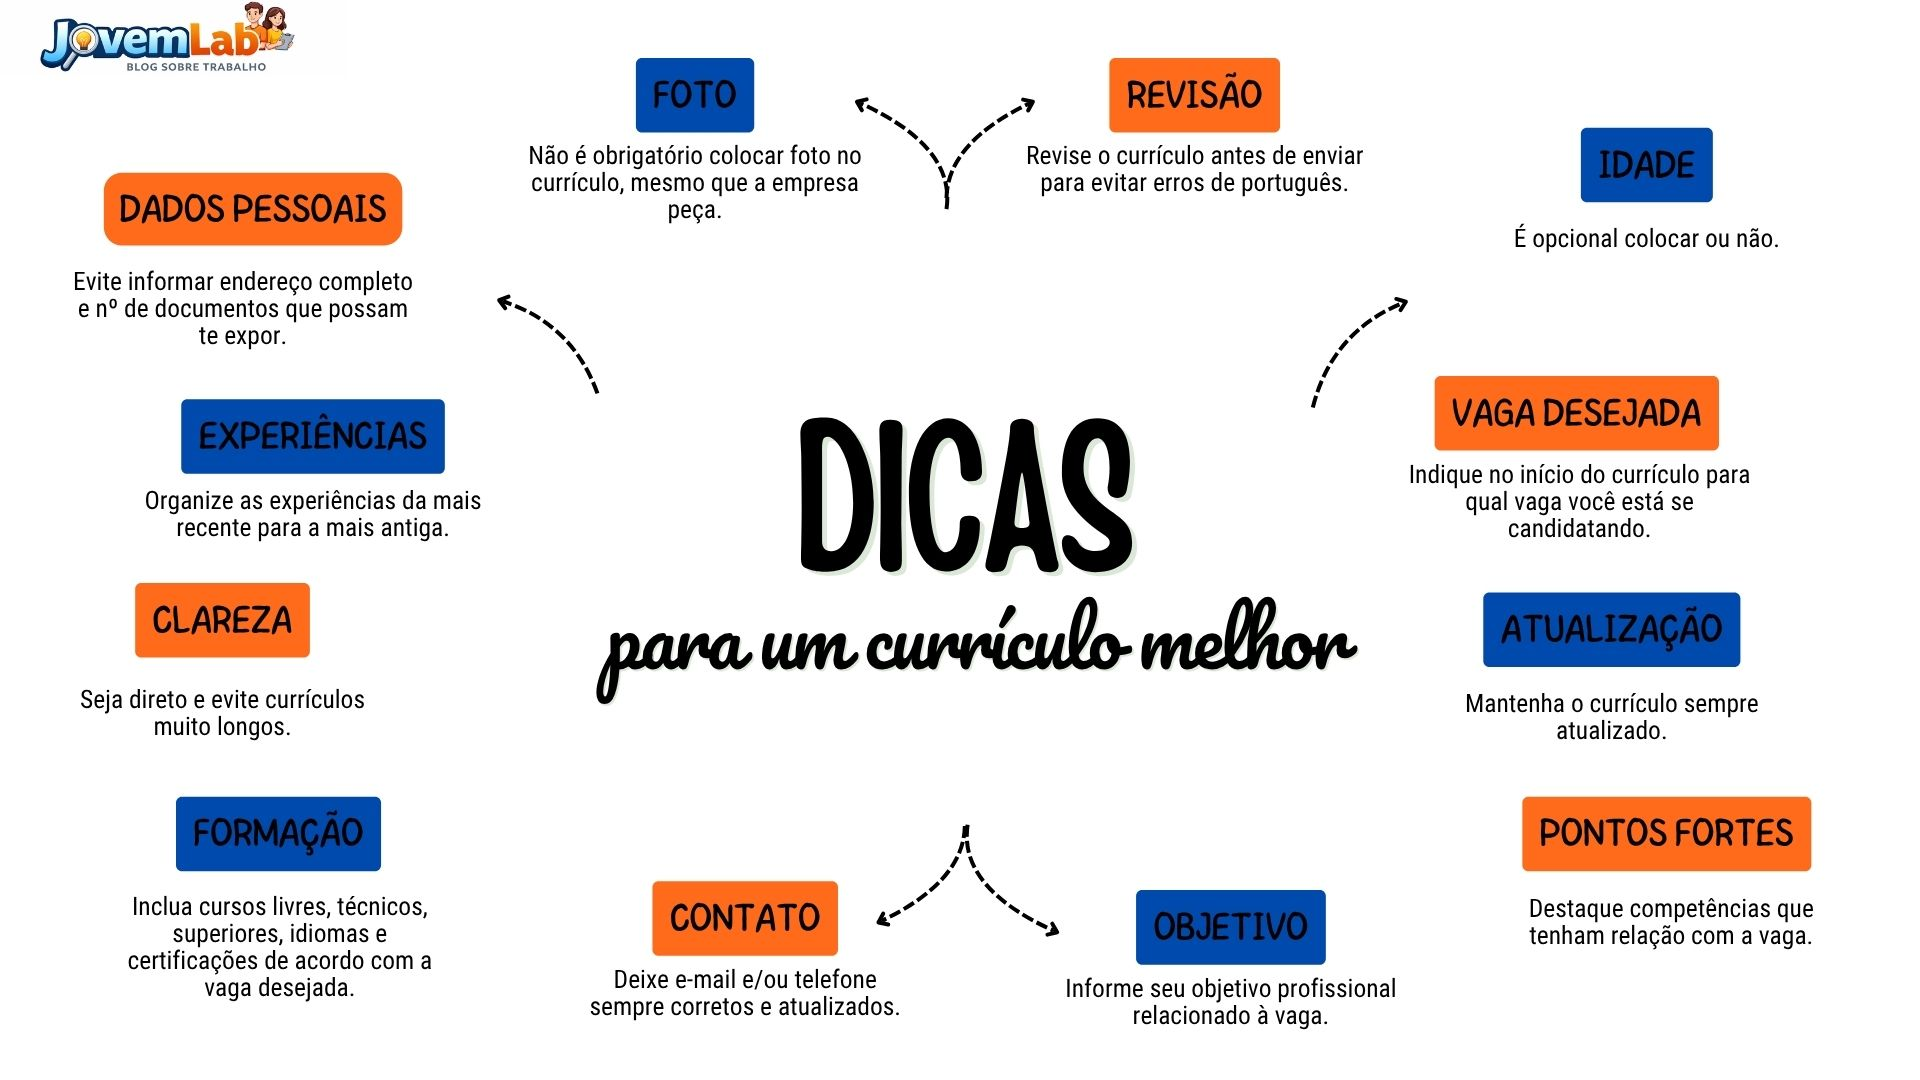
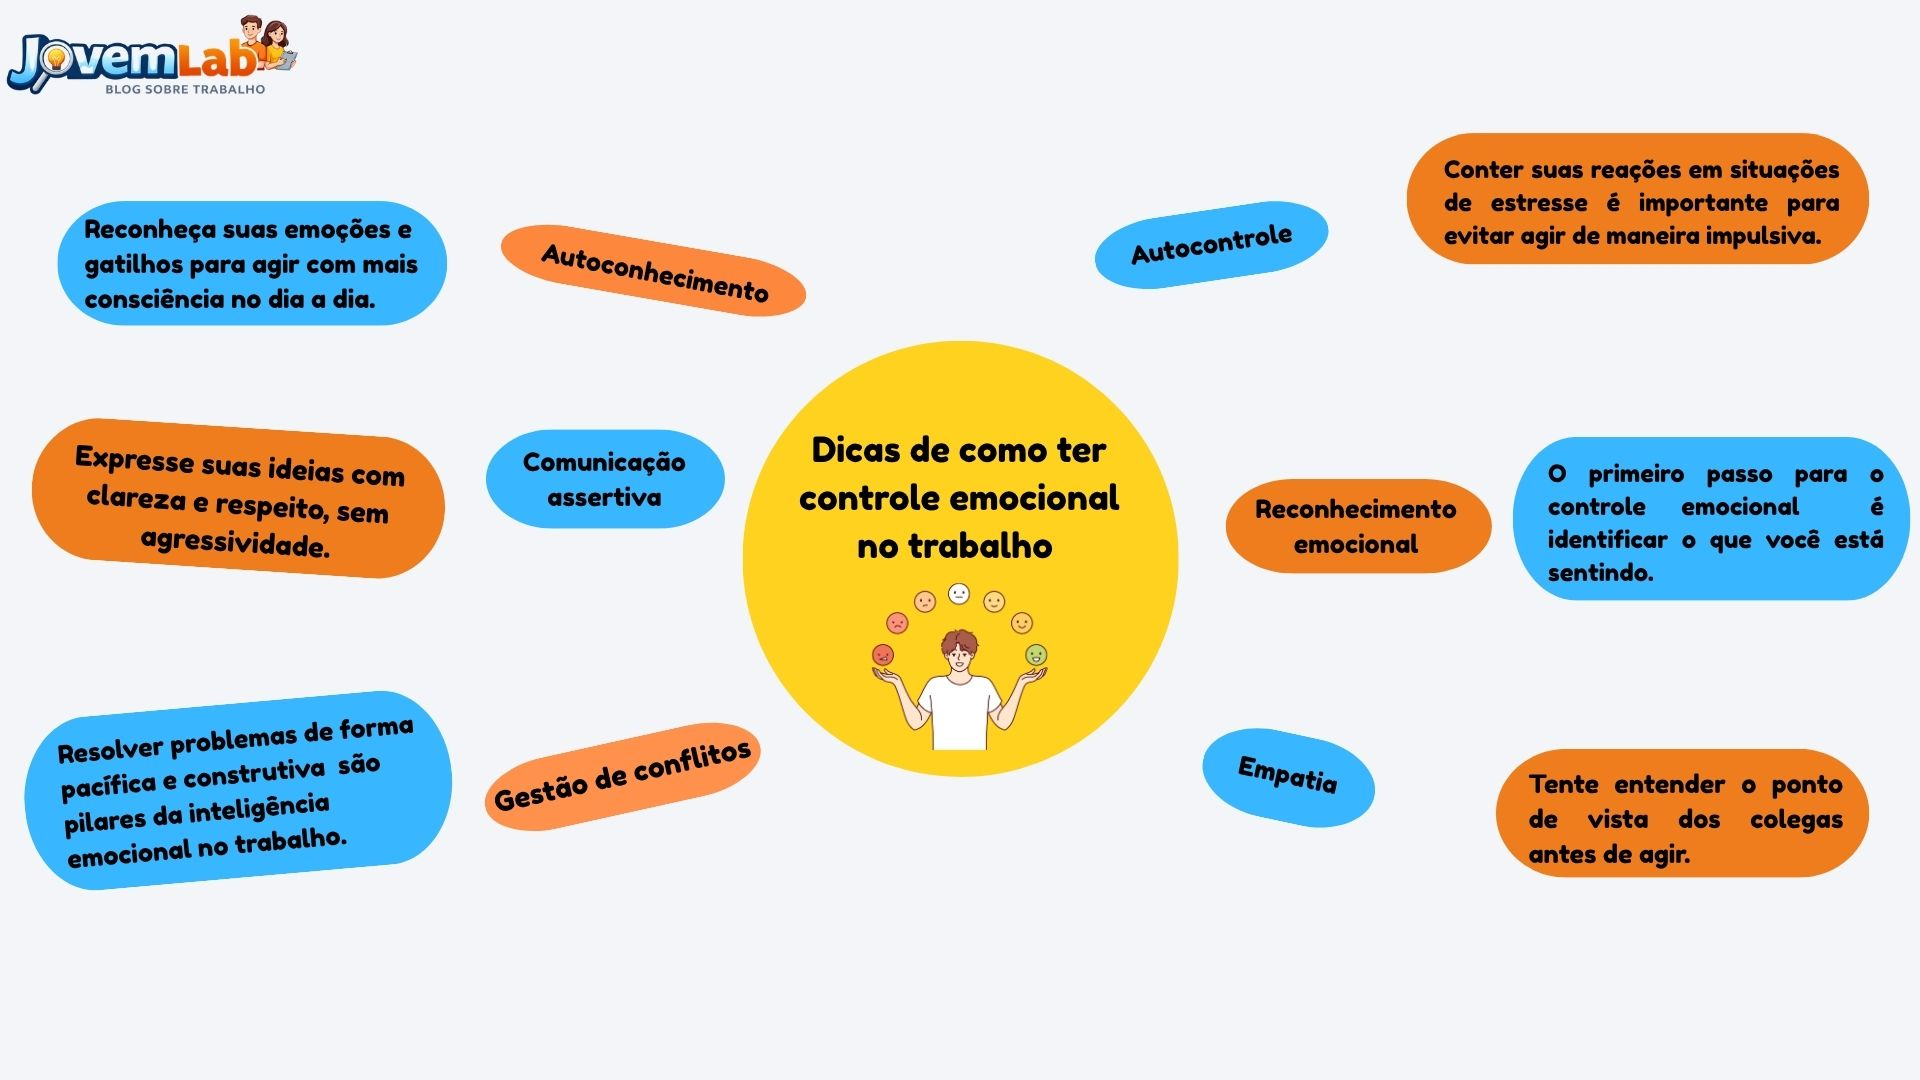
Apresentação Finalizada

diff --git a/js/storage.js b/js/storage.js
@@ -253,7 +253,7 @@ const DB = {
         destaque: false,
         dataPublicacao: '2026-04-28',
         tempoLeitura: '7 min',
-        autor: 'Davi Teixeira Granjeiro e Gabryel Barbosa Ramos e Silva',
+        autor: 'Davi Teixeira Granjeiro, Gabryel Barbosa Ramos e Silva e Rebeca',
         conteudo: `
         <div class="slides-davi">  
           <div class="slide-davi1">
@@ -353,19 +353,19 @@ const DB = {
             <img src="jovem-lab/assets/images/amanda6.jpg">
           </div>
           <div classe="slide-amanda7">
-            <img src="jovem-lab/assets/images/amanda7.jpg">
+            <img src="jovem-lab/assets/images/amanda7.png">
           </div>
           <div classe="slide-amanda8">
-            <img src="jovem-lab/assets/images/amanda8.jpg">
+            <img src="jovem-lab/assets/images/amanda8.png">
           </div>
           <div classe="slide-amanda9">
-            <img src="jovem-lab/assets/images/amanda9.jpg">
+            <img src="jovem-lab/assets/images/amanda9.png">
           </div>
           <div classe="slide-amanda10">
-            <img src="jovem-lab/assets/images/amanda10.jpg">
+            <img src="jovem-lab/assets/images/amanda10.png">
           </div>
           <div classe="slide-amanda11">
-            <img src="jovem-lab/assets/images/amanda11.jpg">
+            <img src="jovem-lab/assets/images/amanda11.png">
           </div>
           <div classe="slide-amanda12">
             <img src="jovem-lab/assets/images/amanda12.jpg">
@@ -478,86 +478,139 @@ const DB = {
         tempoLeitura: '10 min',
         autor: 'Turma de Aprendizagem 2026.08.53',
         conteudo: `
-        <section class="equipe"
-          <div class="autores">
-            <div class="kamilly">
-              <img src="jovem-lab/assets/images/kamillyfoto.jpeg" alt="Kamilly">
-                <div class="info-kamilly"
-                  <h2>Dicas de sites para cursos online para acrescentar no currículo</h2>
-                </div>
+        <section class="equipe">
+          <div class="membro"> 
+              <img src="jovem-lab/assets/images/kamillyfoto.jpeg">
+            <div class="info">
+              <h3>Cursos gratuitos para alavancar sua carreira</h3>
             </div>
-            <div class="rebeca">
-              <div class="info-rebeca"  
-                <img src="jovem-lab/assets/images/rebecafoto.jpeg">
-                <h2>Cursos que as empresas mais pedem</h2>
+          </div>
+          <div class="membro"> 
+            <img src="jovem-lab/assets/images/rebecafoto.jpeg">
+            <div class="info">
+              <h3>Quais cursos são mais valorizados pelas empresas</h3>
+            </div>
+          </div>
+          <div class="membro">
+            <img src="jovem-lab/assets/images/arnoldfoto.jpeg">
+            <div class="info">
+              <h3>Dicas de ética no trabalho</h3>
+            </div>
+          </div>
+          <div class="membro">
+            <img src="jovem-lab/assets/images/itallofoto.jpg">
+              <div class="info">
+                <h3>Como encontrar o primeiro emprego e Filmmaker do vídeo de apresentação</h3>
               </div>
+          </div>
+          <div class="membro">
+            <img src="jovem-lab/assets/images/kalebefoto.jpg">
+            <div class="info">
+              <h3>Como se vestir e se portar em uma entrevista</h3>
             </div>
-            <div class="arnold">
-              <div class="info-arnold"
-                <img src="jovem-lab/assets/images/arnoldfoto.jpeg">
-                <h2>Dicas de ética no trabalho</h2>
-              </div>
+          </div>
+          <div class="membro">
+            <img src="jovem-lab/assets/images/davifoto.webp">
+            <div class="info">
+              <h3>Quais cursos são mais valorizados pelas empresas</h3>
             </div>
-            <div class="itallo">
-                <div class="info-itallo"
-                  <img src="jovem-lab/assets/images/itallofoto.jpg">
-                  <h2>Como encontrar o primeiro emprego e Vídeo de apresentação</h2>
-                </div>
-            </div>
-            <div class="kalebe">
-              <img src="jovem-lab/assets/images/kalebefoto.jpg">
-            </div>
-            <div class="davi">
-              <img src="jovem-lab/assets/images/davifoto.webp">
-            </div>
-            <div class="vivian">
+          </div>
+          <div class="membro">
               <img src="jovem-lab/assets/images/vivianfoto.jpg">
+              <div class="info">
+                <h3>Dicas sobre como ter um currículo melhor</h3>
+              </div>
+          </div>
+          <div class="membro">
+             <img src="jovem-lab/assets/images/brunafoto.png">
+            <div class="info">
+              <h3>Cartaz físico, digital para divulgação do projeto e Atriz do vídeo de apresentação</h3>
             </div>
-            <div class="bruna">
-              <img src="jovem-lab/assets/images/brunafoto.jpeg">
+          </div>
+          <div class="membro">
+            <img src="jovem-lab/assets/images/esterfoto.jpeg">
+            <div class="info">
+              <h3>Cartaz físico, digital para divulgação do projeto e Atriz do vídeo de apresentação</h3>
             </div>
-            <div class="ester">
-              <img src="jovem-lab/assets/images/esterfoto.jpeg">
+          </div>
+          <div class="membro">
+            <img src="jovem-lab/assets/images/mariaclarafoto.jpeg">
+            <div class="info">
+              <h3>Como encontrar o primeiro emprego</h3>
             </div>
-            <div class="mariaclara">
-              <img src="jovem-lab/assets/images/mariaclarafoto.jpeg">
+          </div>
+          <div class="membro">
+            <img src="jovem-lab/assets/images/viniciusfoto.webp">
+            <div class="info">
+              <h3>Programador do site e idealizador</h3>
             </div>
-            <div class="vinicius">
-              <img src="jovem-lab/assets/images/viniciusfoto.webp">
+          </div>
+          <div class="membro">
+            <img src="jovem-lab/assets/images/viniciusg.webp">
+            <div class="info">
+              <h3>Como ter controle emocional no trabalho</h3>
             </div>
-            <div class="viniciusg">
-              <img src="jovem-lab/assets/images/viniciusg.webp">
+          </div>
+          <div class="membro">
+            <img src="jovem-lab/assets/images/amandac.jpg">
+            <div class="info">
+              <h3>Curadoria de Cores para o site</h3>
             </div>
-            <div class="amandac">
-              <img src="jovem-lab/assets/images/amandac.jpg">
+          </div>
+          <div class="membro">
+            <img src="jovem-lab/assets/images/gabriellefoto.jpg">
+            <div class="info">
+              <h3>Orientações para processos seletivos</h3>
+            </div> 
+          </div>
+          <div class="membro">
+            <img src="jovem-lab/assets/images/amandav.jpg">
+            <div class="info">
+              <h3>O que fazer na entrevista de emprego</h3>
             </div>
-            <div class="gabrielle">
-              <img src="jovem-lab/assets/images/gabriellefoto.jpg">
+          </div>
+          <div class="membro">
+            <img src="jovem-lab/assets/images/gabryelfoto.png">
+            <div class="info">
+              <h3>Quais cursos são mais valorizados pelas empresas</h3>
             </div>
-            <div class="amandav">
-              <img src="jovem-lab/assets/images/amandav.jpg">
+          </div>
+          <div class="membro">
+            <img src="jovem-lab/assets/images/analuizafoto.webp">
+            <div class="info">
+              <h3>Quais cursos são mais valorizados pelas empresas</h3>
             </div>
-            <div class="gabryel">
-              <img src="jovem-lab/assets/images/gabryelfoto.png">
+          </div>
+          <div class="membro">
+            <img src="jovem-lab/assets/images/anaclarafoto.jpg">
+            <div class="info">
+              <h3>Dicas de ética no trabalho</h3>
             </div>
-            <div class="analuiza">
-              <img src="jovem-lab/assets/images/analuizafoto.webp">
+          </div>
+          <div class="membro">
+            <img src="jovem-lab/assets/images/victorfoto.jpeg">
+            <div class="info">
+              <h3>Quiz sobre empregabilidade</h3>
             </div>
-            <div class="anaclara">
-              <img src="jovem-lab/assets/images/anaclarafoto.jpg">
+          </div>
+          <div class="membro">
+            <img src="jovem-lab/assets/images/lucasfoto.jpeg">
+            <div class="info">
+              <h3>Mentir no currículo vale a pena?</h3>
             </div>
-            <div class="victor">
-              <img src="jovem-lab/assets/images/victorfoto.jpeg">
+          </div>
+          <div class="membro">
+            <img src="jovem-lab/assets/images/luizfoto.jpg">
+            <div class="info">
+              <h3>Quiz sobre empregabilidade</h3>
             </div>
-            <div class="lucas">
-                <img src="jovem-lab/assets/images/lucasfoto.jpeg">
+          </div>
+          <div class="membro">
+            <img src="jovem-lab/assets/images/isaacfoto.jpeg">
+            <div class="info">
+              <h3>6 Profissões em alta</h3>
             </div>
-            <div class="luiz">
-              <img src="jovem-lab/assets/images/luizfoto.jpg">
-            </div>
-            <div class="isaac">
-              <img src="jovem-lab/assets/images/isaacfoto.jpeg">
-            </div>
+          </div>
         `
       },
     ];

diff --git a/css/style.css b/css/style.css
@@ -1230,3 +1230,64 @@ text-justify: inter-word;
 .slide-lucas{
   text-align: justify;
 }
+/* ÁREA GERAL */
+.equipe {
+  display: flex;
+  flex-direction: column;
+  gap: 30px;
+
+  width: 90%;
+  max-width: 1000px;
+
+  margin: 40px auto;
+}
+
+/* CADA MEMBRO */
+.membro {
+  display: flex;
+  align-items: center;
+
+  gap: 25px;
+
+  background: white;
+
+  padding: 20px;
+
+  border-radius: 20px;
+
+  box-shadow: 0 5px 15px rgba(0,0,0,0.08);
+}
+
+/* FOTO */
+.membro img {
+  width: 120px;
+  height: 120px;
+
+  object-fit: cover;
+
+  border-radius: 50%;
+
+  transition: 0.3s ease;
+}
+
+/* ZOOM */
+.membro img:hover {
+  transform: scale(1.3);
+}
+
+/* TEXTO */
+.info {
+  flex: 1;
+}
+
+/* FUNÇÃO */
+.info h3 {
+  display: flex;
+  align-items: center;
+
+  gap: 10px;
+
+  margin-bottom: 10px;
+
+  font-size: 26px;
+}
